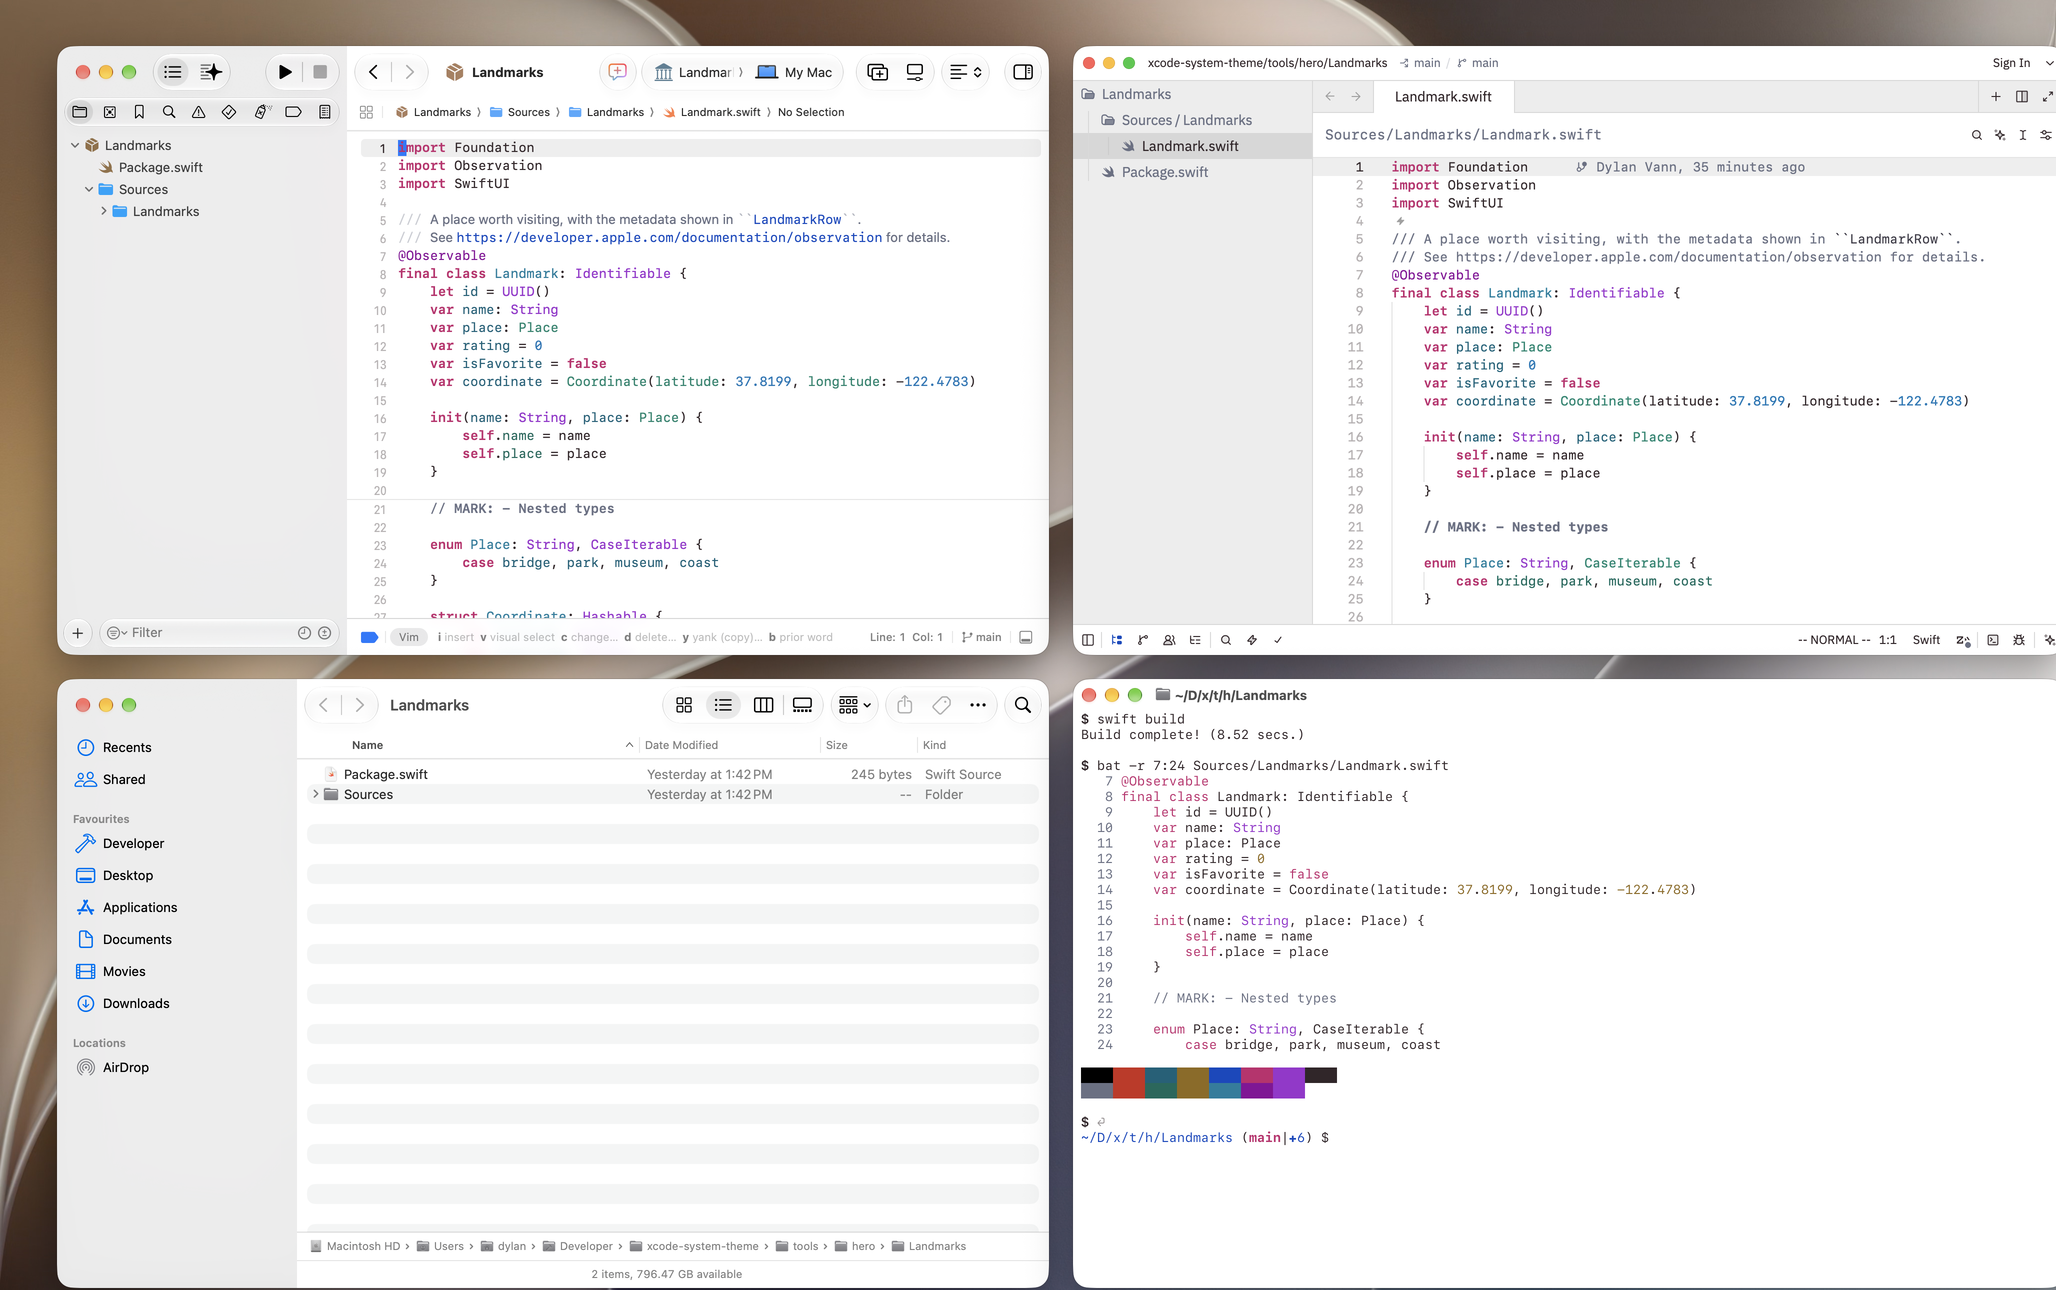
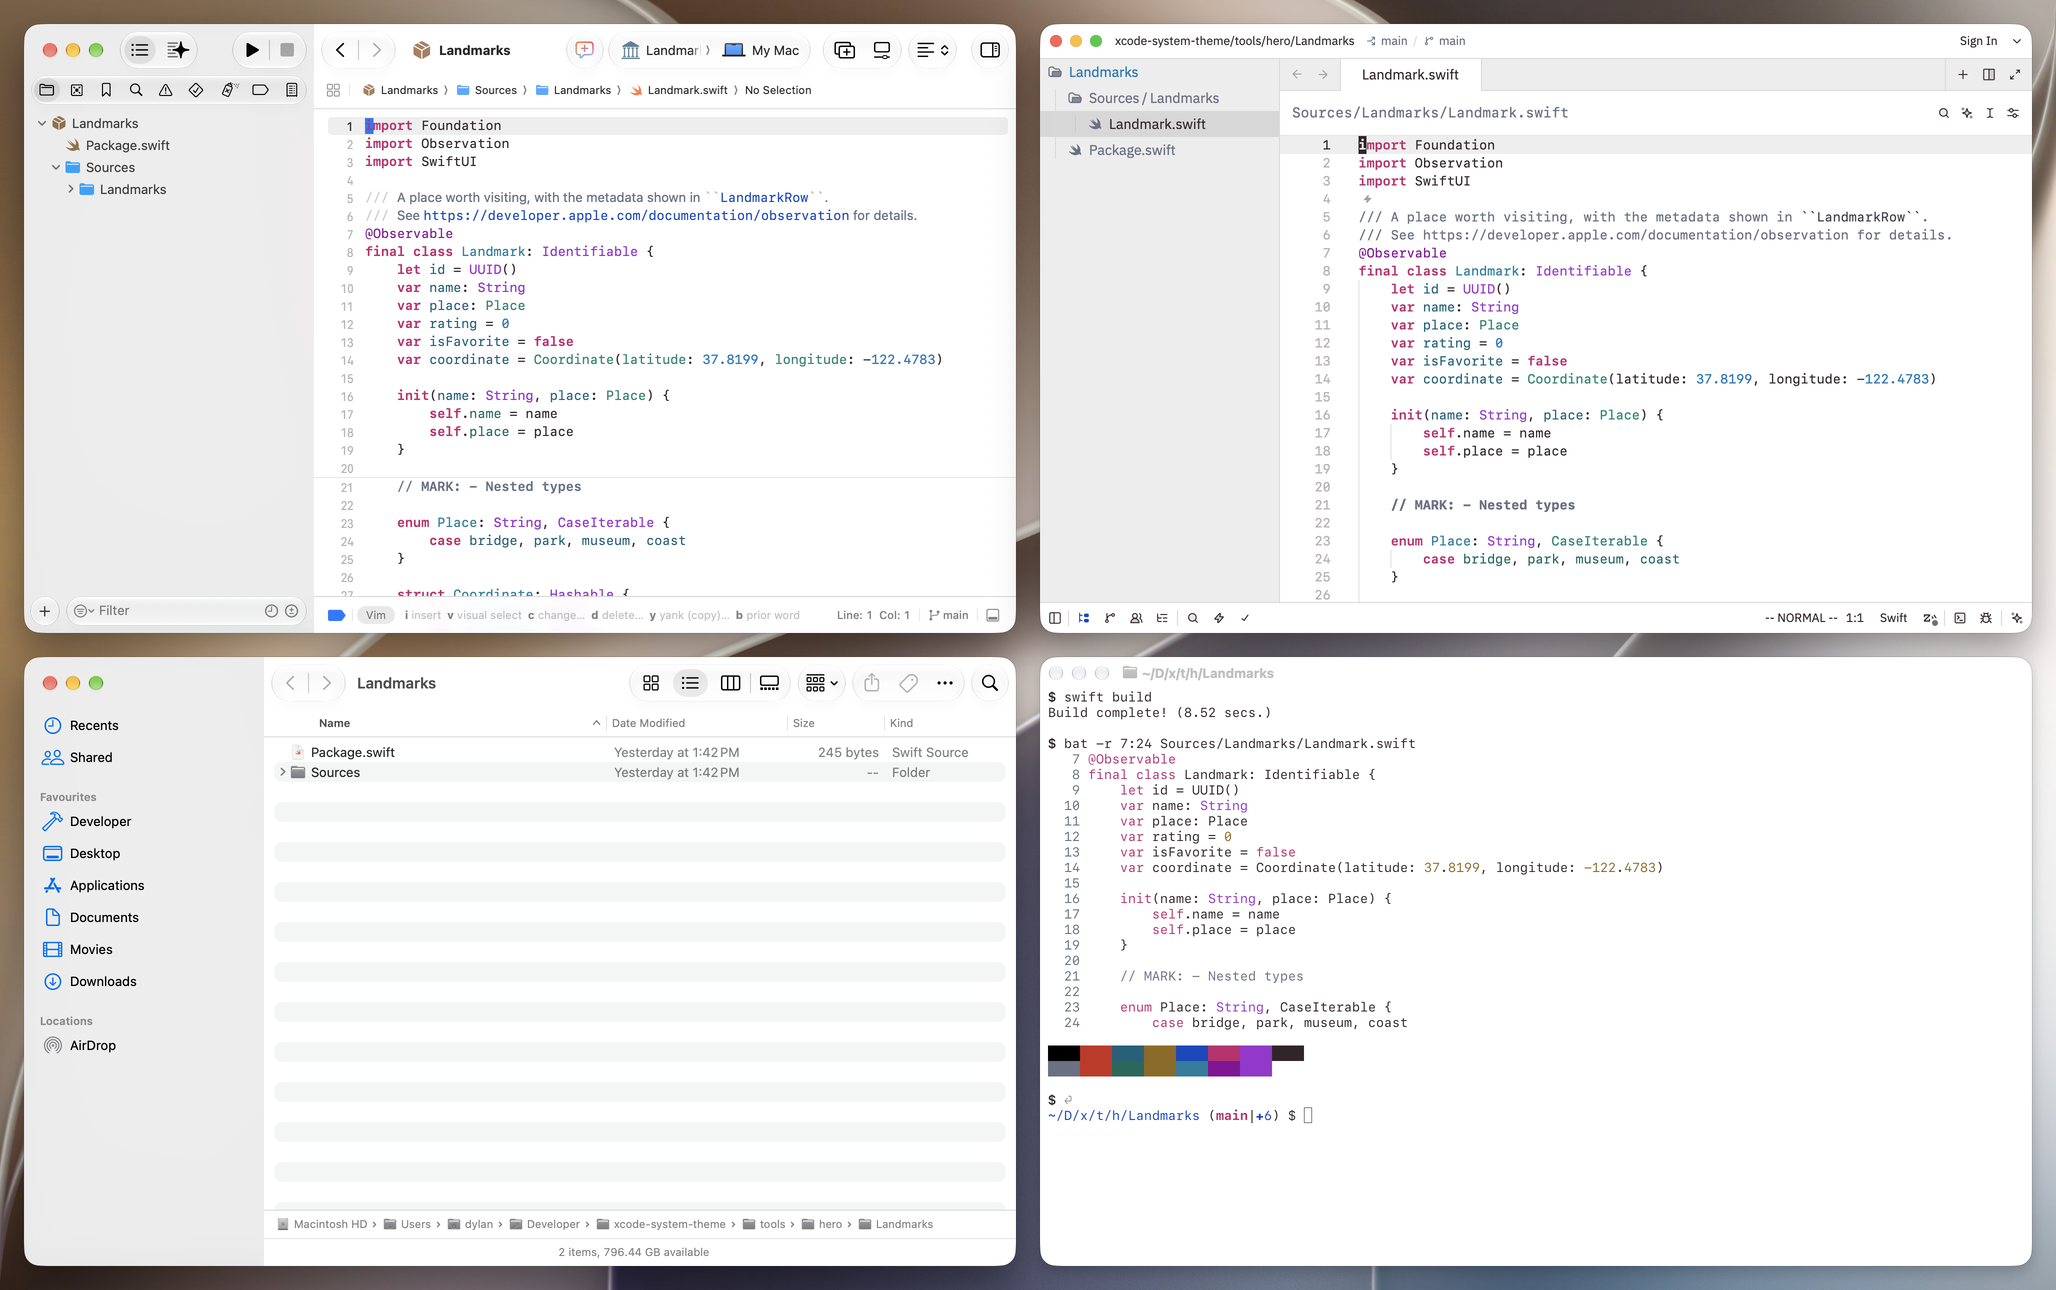
Measure the shadow of each capture, since active windows cast a larger one, and hide inline blame during captures

Changed region(s): [[0.0, 0.0, 1.0, 1.0], [0.7471, 0.6822, 0.7782, 0.7132]]

diff --git a/AGENTS.md b/AGENTS.md
@@ -59,7 +59,7 @@ Hard-won facts about how these themes are built and verified. Read before touchi
 ## Hero shot specifics
 
 - `tools/hero/hero.sh` is the working procedure: `setup` opens and sizes the windows, `capture` composites. It relies on everything above and on `tools/hero/demo.sh` for the terminal pane, which renders the file with `bat` and the Xcode System bat theme.
-- Capture by compositing, never by a full-screen grab. `screencapture -l <id>` without `-o` returns the window with its shadow as alpha. The shadow is a constant of macOS, 46 px left and right, 32 above, 60 below at 2x, the same for every window and size, so the placement on the canvas is grid position minus 23 and 16, times two for the 2x canvas, with no measuring. The composite is written at 2x as `hero-{mode}@2x.png` and halved for the README's `hero-{mode}.png`, which links to the 2x file. GitHub strips `target` attributes, so the link cannot force a new tab.
+- Capture by compositing, never by a full-screen grab. `screencapture -l <id>` without `-o` returns the window with its shadow as alpha. The shadow depends on whether the window is active: 46 px left and right, 32 above, 60 below at 2x when inactive, and 112, 76, and about 150 when it is the key window. Since windows are raised before capture, the capture's opaque bounding box (`magick -alpha extract -threshold 99% -format %@`) is measured and the window placed at grid position times two minus that offset. A constant offset put every window down and to the right and clipped the bottom row. The composite is written at 2x as `hero-{mode}@2x.png` and halved for the README's `hero-{mode}.png`, which links to the 2x file. GitHub strips `target` attributes, so the link cannot force a new tab.
 - The 2x files carry 144 dpi metadata so Preview and Quick Look show them at one image pixel per device pixel; at the default 72 dpi they display at twice their size and look soft. Browsers ignore the metadata and scale images to fit, and the display itself runs a 4112 px buffer downsampled to a 3456 px panel, so no viewer shows the file sharper than at 50% zoom. A window capture matches the composite pixel for pixel, verified with `magick compare -metric AE`; if a shot looks blurry, it is the viewer. Windows can sit anywhere on screen; only their size matters.
 - The wallpapers are stored in the repo as `tools/hero/wallpaper-{light,dark}.jpg` at the display's native 2x resolution, captured once from the wallpaper window (owner `WindowManager`, titled `Wallpaper`, which excludes desktop icons). `hero.sh wallpaper` recaptures them; the wallpaper crossfade takes about 4 s, which is why they are not captured per run. `tools/winlist.swift` lists windows at every layer with bounds.
 - Park the mouse pointer in the gap between windows before capturing (`tools/warpmouse.swift`). The pointer itself is never captured, but hover effects are: a pointer left over Zed's editor produced a documentation popup in the shot once Zed was raised.
@@ -68,7 +68,7 @@ Hard-won facts about how these themes are built and verified. Read before touchi
 - Never delete `.swiftpm` while Xcode has the package open; Xcode raises a modal about the vanished workspace file. Deleting `.build` is fine.
 - `tools/hero/Landmarks/.zed/settings.json` excludes `.build`, `.swiftpm`, and `.zed` from Zed's tree, since sourcekit-lsp keeps recreating an index build there.
 - Xcode's canvas state is restored per window, so check the Canvas menu item's mark and click until it reads `missing value`.
-- Sample output must not show git history or `ls -l` owner columns; both leak the account name. The Finder sidebar still shows the home folder name.
+- Sample output must not show git history or `ls -l` owner columns; both leak the account name. Zed ignores `git.inline_blame` in a project's `.zed/settings.json`, so `hero.sh capture` switches it off in the user's `settings.json` for the run and restores the file on exit; Zed applies the change live within a few seconds. The Finder sidebar still shows the home folder name.
 - `screencapture` omits the mouse pointer unless `-C` is passed, so the shots never include it. Do not add `-C`.
 - Close leftover demo windows first: Ghostty via the AX close button on windows whose name contains "Landmarks", Finder via `close every Finder window`.
 
